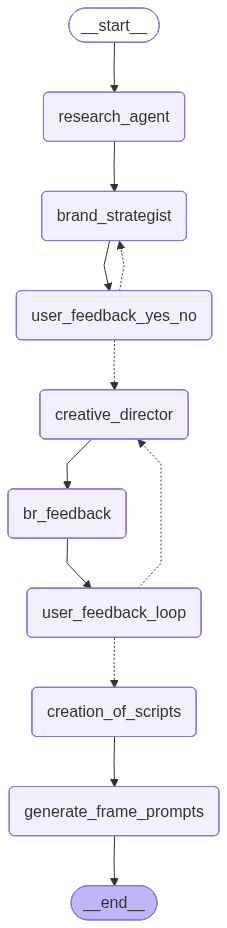
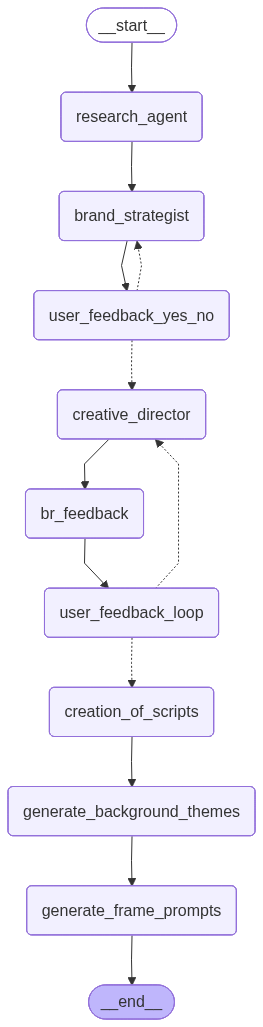
added code

diff --git a/main.py b/main.py
@@ -16,6 +16,7 @@ class GraphState(TypedDict):
     scripts_created: dict  # Changed from str to dict
     creative_director_node: str
     frame_prompts: List[str]  # Added to store image prompts
+    background_themes: List[dict]  # Added to store background themes and figures
 
 
 # Define the nodes
@@ -128,27 +129,71 @@ def creation_of_scripts_node(state):
         return {"scripts_created": {"script": []}}
 
 
+def generate_background_themes_node(state: GraphState):
+    print("Generating background themes and fitting figures for each scene...")
+    scenes = state["scripts_created"].get("script", [])
+    generated_themes = []
+
+    theme_generation_system_prompt = """You are an AI assistant specialized in creating background themes and fitting figures for video scenes.
+    You will be given scene details (setting, visual description, mood).
+    Your task is to generate:
+    1. A concise, descriptive background theme prompt suitable for an AI image generator (e.g., "futuristic city skyline at dusk").
+    2. A brief description of any fitting figures or objects that should be present in this background, but not necessarily the main focus (e.g., "silhouetted pedestrians, glowing street lamps").
+
+    Output a JSON object with two keys: "theme_prompt" and "fitting_figures". Do NOT include any other text."""
+    print(f"Total scenes to process: {len(scenes)}")
+    print(scenes)
+    for scene in scenes:
+        scene_details = f"""
+        Generate a background theme and fitting figures for this scene:
+        - Scene Number: {scene.get('scene_number')}
+        - Setting: {scene.get('setting')}
+        - Visual Description: {scene.get('visual_description')}
+        - Audio/Mood: {scene.get('audio_cue')}
+        """
+        theme_generation_system_prompt += " " + scene_details
+        theme_json_string = chat_with_openrouter(theme_generation_system_prompt)
+        try:
+            parsed_theme = json.loads(theme_json_string)
+            generated_themes.append(parsed_theme)
+            print(f"  - Theme for Scene {scene.get('scene_number')}: {parsed_theme.get('theme_prompt')}")
+        except json.JSONDecodeError as e:
+            print(f"Error: Failed to decode theme JSON for scene {scene.get('scene_number')}. {e}")
+            print(f"Received string: {theme_json_string}")
+            generated_themes.append({"theme_prompt": "generic background", "fitting_figures": ""})
+
+    return {"background_themes": generated_themes}
+
+
 def generate_frame_prompts_node(state: GraphState):
     print("Generating starting frame prompts for each scene...")
     scenes = state["scripts_created"].get("script", [])
+    background_themes = state.get("background_themes", [])
     generated_prompts = []
 
     # This system prompt instructs the LLM on how to behave for this specific task
     prompt_generation_system_prompt = """You are an expert prompt engineer for an AI image generator (like DALL-E 3 or Midjourney). 
-    You will be given scene details from a video script. 
+    You will be given scene details from a video script, along with a suggested background theme and fitting figures.
     Your job is to write a single, concise, and highly descriptive prompt that will generate a beautiful, photorealistic starting frame for that scene. 
+    Integrate the background theme and fitting figures smoothly into the main prompt.
     Focus on visual details: camera angle (e.g., "close-up", "wide shot"), lighting (e.g., "soft morning light", "dimly lit"), mood, and key actions.
     Your response must be ONLY the prompt itself, with no extra text."""
 
-    for scene in scenes:
-        # Create a detailed input for the prompt generator LLM
+    for i, scene in enumerate(scenes):
+        # Get the corresponding background theme and figures, if available
+        theme_data = background_themes[i] if i < len(background_themes) else {}
+        background_theme = theme_data.get("theme_prompt", "")
+        fitting_figures = theme_data.get("fitting_figures", "")
+
         scene_details = f"""
-        Generate an image prompt for the starting frame of this scene:
+        Generate an image prompt for the starting frame of this scene, incorporating the background theme and fitting figures:
         - Scene Number: {scene.get('scene_number')}
         - Setting: {scene.get('setting')}
         - Visual Description: {scene.get('visual_description')}
         - Text on Screen: {scene.get('text_on_screen')}
         - Audio/Mood: {scene.get('audio_cue')}
+        - Suggested Background Theme: {background_theme}
+        - Fitting Figures/Objects for Background: {fitting_figures}
         """
 
         # Call the LLM to generate the image prompt
@@ -193,7 +238,8 @@ workflow.add_node("creative_director", creative_director_node)
 workflow.add_node("br_feedback", br_feedback_node)
 workflow.add_node("user_feedback_loop", user_feedback_loop_node)
 workflow.add_node("creation_of_scripts", creation_of_scripts_node)
-workflow.add_node("generate_frame_prompts", generate_frame_prompts_node)  # Add the new node
+workflow.add_node("generate_background_themes", generate_background_themes_node)  # New node
+workflow.add_node("generate_frame_prompts", generate_frame_prompts_node)  # Modified node
 
 # Set entry point
 workflow.set_entry_point("research_agent")
@@ -224,8 +270,9 @@ workflow.add_conditional_edges(
 )
 
 # 3. Set the finish point using END
-# The graph now flows from scripts to frame prompt generation
-workflow.add_edge("creation_of_scripts", "generate_frame_prompts")
+# The graph now flows from scripts -> background themes -> frame prompt generation
+workflow.add_edge("creation_of_scripts", "generate_background_themes")
+workflow.add_edge("generate_background_themes", "generate_frame_prompts")
 workflow.add_edge("generate_frame_prompts", END)  # End after prompts are generated
 
 # Compile the graph
@@ -248,17 +295,28 @@ try:
         script_data = final_state.get('scripts_created', {})
         json.dump(script_data, f, indent=4)
 
-    # 4. Save Generated Frame Prompts
+    # 4. Save Generated Background Themes
+    with open("background_themes.md", "w", encoding="utf-8") as f:
+        themes = final_state.get('background_themes', [])
+        f.write("# Generated Background Themes and Fitting Figures\n\n")
+        if not themes:
+            f.write("No background themes were generated.")
+        for i, theme_data in enumerate(themes, 1):
+            f.write(f"## Scene {i}\n")
+            f.write(f"**Theme Prompt:** {theme_data.get('theme_prompt', 'N/A')}\n")
+            f.write(f"**Fitting Figures:** {theme_data.get('fitting_figures', 'N/A')}\n\n")
+
+    # 5. Save Generated Frame Prompts
     with open("frame_prompts.md", "w", encoding="utf-8") as f:
         prompts = final_state.get('frame_prompts', [])
-        f.write("# Generated Frame Prompts\n\n")
+        f.write("# Generated Frame Prompts (Combined with Backgrounds)\n\n")
         if not prompts:
             f.write("No prompts were generated.")
         for i, prompt in enumerate(prompts, 1):
             f.write(f"## Scene {i}\n")
             f.write(f"{prompt}\n\n")
 
-    print("Successfully saved 4 files.")
+    print("Successfully saved 5 files.")
 
 except KeyError as e:
     print(f"\nError: A key was missing from the final state: {e}")

diff --git a/creative_concept.md b/creative_concept.md
@@ -1,59 +1,1 @@
-Idea 1
-Storyline
-In a high-stakes tech startup race, a young developer is under pressure to launch an AI-powered app quickly, but fears unintended biases could harm users. She integrates Claude 3.5 Sonnet via the API, guided by Constitutional AI principles, which steers the system toward ethical outputs. As the app goes live, it not only succeeds but builds trust with users, showcasing how Anthropic's safe AI turns innovation into responsible impact.
-Characters
-1. Name: Alex Rivera
-   - Personality: Ambitious yet cautious, driven by a passion for ethical tech but anxious about cutting corners.
-   - Appearance: Casual coder vibe with messy hair, wearing a hoodie and glasses, always with a laptop backpack.
-   - Age: 28
-2. Name: Jordan Lee
-   - Personality: Supportive mentor, optimistic and knowledgeable, emphasizing long-term value over short-term wins.
-   - Appearance: Professional yet approachable, in a button-up shirt, with neatly styled hair and a friendly smile.
-   - Age: 35
-Location
-A bustling open-plan co-working space in San Francisco's Mission District, filled with vibrant graffiti walls, collaborative desks, and glowing screens reflecting the city's innovative energy.
-§
-Idea 2
-Storyline
-A corporate executive at a growing fintech firm struggles with AI tools that amplify risks in financial predictions. Turning to Anthropic's Claude API, she applies steerable AI frameworks to make decisions interpretable and safe, transforming potential pitfalls into secure opportunities that boost revenue and customer confidence, proving AI can be a steadfast ally in business evolution.
-Characters
-1. Name: Sofia Chen
-   - Personality: Strategic and decisive, with a strong moral compass, frustrated by unreliable tech but excited by solutions.
-   - Appearance: Polished business attire, sharp bob haircut, carrying a sleek tablet and exuding quiet authority.
-   - Age: 42
-2. Name: Dr. Elias Grant
-   - Personality: Innovative researcher, collaborative and insightful, bridging tech and ethics with enthusiasm.
-   - Appearance: Thoughtful with wire-rimmed glasses, casual blazer over a graphic tee featuring AI motifs, salt-and-pepper hair.
-   - Age: 50
-Location
-A sleek, modern boardroom in a San Francisco high-rise overlooking the bay, with floor-to-ceiling windows, holographic data displays, and minimalist decor emphasizing clarity and forward-thinking.
-§
-Idea 3
-Storyline
-A policy advisor in a non-profit organization grapples with the ethical dilemmas of deploying AI for social good, like climate modeling. By leveraging Anthropic's interpretable AI systems, including Constitutional AI, she uncovers hidden biases and refines models for harmless, reliable insights. The result? A groundbreaking report that influences global policy, highlighting how safe AI empowers meaningful change.
-Characters
-1. Name: Maya Patel
-   - Personality: Idealistic and analytical, deeply committed to justice, persistent in questioning AI's societal role.
-   - Appearance: Practical with braided hair, wearing earth-toned clothing and a necklace symbolizing advocacy, notebook in hand.
-   - Age: 32
-2. Name: Theo Morales
-   - Personality: Empathetic collaborator, witty and reassuring, focused on human-centered AI applications.
-   - Appearance: Warm and approachable, in a vest over a shirt, with a trimmed beard and a subtle tattoo of a circuit pattern.
-   - Age: 38
-Location
-A cozy research library in San Francisco's Presidio, surrounded by fog-shrouded trees, lined with books on AI ethics and furnished with communal tables under soft, natural light.
-§
-Idea 4
-Storyline
-An entrepreneur building an educational platform worries about AI tutors misleading students. She adopts Claude 3.5 Sonnet's steerable features, ensuring responses are reliable and aligned with educational standards. As the platform launches, it engages learners worldwide safely, illustrating Anthropic's role in fostering trustworthy AI that educates and inspires the next generation.
-Characters
-1. Name: Liam Novak
-   - Personality: Visionary and hands-on, optimistic about tech's potential but vigilant against misuse.
-   - Appearance: Energetic with tousled hair, in jeans and a startup tee, often sketching ideas on a whiteboard.
-   - Age: 26
-2. Name: Nora Kim
-   - Personality: Nurturing educator, detail-oriented and encouraging, passionate about accessible learning.
-   - Appearance: Graceful with glasses and a ponytail, dressed in comfortable layers, holding educational props.
-   - Age: 40
-Location
-A vibrant classroom-turned-lab in a San Francisco community center, with interactive whiteboards, diverse student artwork on walls, and windows opening to urban views blending nature and city life.
+Error: Could not get a response.

diff --git a/brand_strategy.md b/brand_strategy.md
@@ -1,5 +1,1 @@
-1. **Brand Core**: Pioneering safe, ethical AI systems that prioritize reliability, interpretability, and steerability to shape a responsible future.
-
-2. **Brand Positioning (Key Differentiator)**: Unrivaled focus on AI safety through frameworks like Constitutional AI, delivering advanced models like Claude 3.5 Sonnet for secure, efficient innovation.
-
-3. **Brand Positioning (Target Audience)**: Developers, businesses, and organizations integrating AI responsibly, seeking ethical tools to drive growth without compromising safety.
+Error: Could not get a response.
